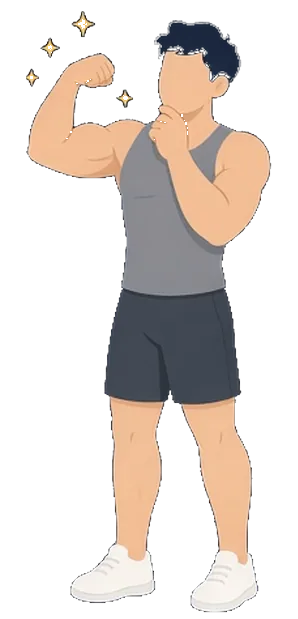
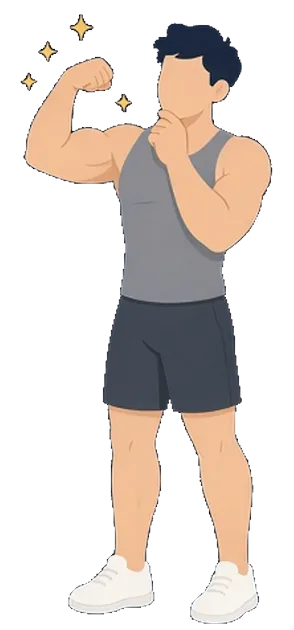
옆 그림 조각과 남색 후광을 지우고 포즈 동작을 조금 키운다.
각 컷은 연결된 사람 한 명만 담고, 발밑에는 옅은 그림만 남긴다. 손 흔들기·조깅·도넛이 1초 안에 읽히도록 움직임을 앞당긴다.

diff --git a/styles.css b/styles.css
@@ -145,19 +145,19 @@ h1 {
 .bodyfig {
   position: relative;
   height: calc(var(--fig-h, 168px) * var(--h, 1));
-  width: calc(var(--fig-h, 168px) * var(--h, 1) * var(--aw, 0.481));
+  width: calc(var(--fig-h, 168px) * var(--h, 1) * var(--aw, 0.467));
   flex: 0 0 auto;
   --accent: #7c9cff;
 }
 .bodyfig .bf-glow {
   position: absolute;
-  left: 14%;
-  right: 14%;
-  top: 16%;
-  bottom: 6%;
-  border-radius: 46% 46% 40% 40%;
-  background: radial-gradient(ellipse at 50% 62%, var(--accent), transparent 70%);
-  opacity: .28;
+  left: 28%;
+  right: 28%;
+  top: auto;
+  bottom: 0;
+  height: 5%;
+  border-radius: 50%;
+  background: radial-gradient(ellipse at center, rgba(0, 0, 0, .28), transparent 72%);
   pointer-events: none;
 }
 .bodyfig .bf-scale {
@@ -183,12 +183,12 @@ h1 {
   display: block;
   -webkit-user-drag: none;
 }
-.pose-flex .bf-anim { animation: pose-flex 2.8s ease-in-out infinite; transform-origin: 50% 100%; }
-.pose-jog .bf-anim { animation: pose-jog 2.4s ease-in-out infinite; transform-origin: 50% 100%; }
-.pose-wave .bf-anim { animation: pose-sway 3.2s ease-in-out infinite; transform-origin: 50% 100%; }
-.pose-donut .bf-anim { animation: pose-sway 3.2s ease-in-out infinite; transform-origin: 50% 100%; }
-.pose-poke .bf-anim { animation: pose-squish 3s ease-in-out infinite; transform-origin: 50% 64%; }
-.pose-hug .bf-anim { animation: pose-shy 3.4s ease-in-out infinite; transform-origin: 50% 100%; }
+.pose-flex .bf-anim { animation: pose-flex 2.2s ease-in-out infinite; transform-origin: 50% 100%; }
+.pose-jog .bf-anim { animation: pose-jog 2s ease-in-out infinite; transform-origin: 50% 100%; }
+.pose-wave .bf-anim { animation: pose-sway 2.2s ease-in-out infinite; transform-origin: 50% 100%; }
+.pose-donut .bf-anim { animation: pose-sway 2.4s ease-in-out infinite; transform-origin: 50% 100%; }
+.pose-poke .bf-anim { animation: pose-squish 2.2s ease-in-out infinite; transform-origin: 50% 64%; }
+.pose-hug .bf-anim { animation: pose-shy 2.4s ease-in-out infinite; transform-origin: 50% 100%; }
 .pose-flex .bf-anim,
 .pose-jog .bf-anim,
 .pose-wave .bf-anim,
@@ -202,13 +202,13 @@ h1 {
 .pose-wave .bf-fx {
   z-index: 2;
   transform-origin: var(--joint-x, 35%) var(--joint-y, 27%);
-  animation: pose-wave 2.6s ease-in-out infinite;
+  animation: pose-wave 1.8s ease-in-out infinite;
   animation-delay: var(--phase, 0s);
 }
 .pose-donut .bf-fx {
   z-index: 0;
   transform-origin: var(--fx-x, 80%) var(--fx-y, 52%);
-  animation: pose-peek 3.2s ease-in-out infinite;
+  animation: pose-peek 2.4s ease-in-out infinite;
   animation-delay: var(--phase, 0s);
 }
 .spark {
@@ -220,7 +220,7 @@ h1 {
   background: #ffe36b;
   clip-path: polygon(50% 0, 61% 35%, 98% 35%, 68% 57%, 79% 91%, 50% 70%, 21% 91%, 32% 57%, 2% 35%, 39% 35%);
   pointer-events: none;
-  animation: pose-twinkle 2.6s ease-in-out infinite;
+  animation: pose-twinkle 1.6s ease-in-out infinite;
 }
 .blush {
   position: absolute;
@@ -231,54 +231,52 @@ h1 {
   border-radius: 50%;
   background: radial-gradient(ellipse at center, rgba(255, 120, 146, .8), rgba(255, 120, 146, 0) 72%);
   pointer-events: none;
-  animation: pose-blush 3.2s ease-in-out infinite;
+  animation: pose-blush 2.2s ease-in-out infinite;
   animation-delay: var(--phase, 0s);
 }
-.pose-hug .blush { animation-duration: 3.4s; }
-.pose-poke .blush { animation-duration: 3s; }
+.pose-hug .blush { animation-duration: 2.4s; }
+.pose-poke .blush { animation-duration: 2.2s; }
 @keyframes pose-flex {
   0%, 100% { transform: translateY(0) rotate(0deg) scale(1); }
-  40% { transform: translateY(-2px) rotate(-1.5deg) scale(1.03); }
-  58% { transform: translateY(-1px) rotate(0.6deg) scale(1.012); }
+  30% { transform: translateY(-3px) rotate(-2.4deg) scale(1.045); }
+  52% { transform: translateY(-1px) rotate(0.8deg) scale(1.015); }
 }
 @keyframes pose-twinkle {
-  0%, 100% { opacity: .25; transform: scale(.8) rotate(-12deg); }
-  50% { opacity: 1; transform: scale(1.15) rotate(14deg); }
+  0%, 100% { opacity: .2; transform: scale(.75) rotate(-16deg); }
+  35% { opacity: 1; transform: scale(1.2) rotate(16deg); }
 }
 @keyframes pose-jog {
-  0%, 100% { transform: translateY(0) rotate(0deg); }
-  18% { transform: translateY(-6px) rotate(-2.2deg); }
-  36% { transform: translateY(0) rotate(0deg); }
-  58% { transform: translateY(-4px) rotate(2deg); }
-  76% { transform: translateY(0) rotate(0deg); }
+  0%, 32%, 64%, 100% { transform: translateY(0) rotate(0deg); }
+  14% { transform: translateY(-8px) rotate(-3deg); }
+  46% { transform: translateY(-6px) rotate(2.6deg); }
 }
 @keyframes pose-sway {
-  0%, 100% { transform: rotate(-1.6deg); }
-  50% { transform: rotate(1.8deg); }
+  0%, 100% { transform: rotate(-2.2deg); }
+  40% { transform: rotate(2.4deg); }
 }
 @keyframes pose-wave {
   0%, 100% { transform: rotate(0deg); }
-  22% { transform: rotate(-16deg); }
-  48% { transform: rotate(13deg); }
-  72% { transform: rotate(-9deg); }
-  86% { transform: rotate(5deg); }
+  20% { transform: rotate(-22deg); }
+  42% { transform: rotate(16deg); }
+  64% { transform: rotate(-12deg); }
+  82% { transform: rotate(6deg); }
 }
 @keyframes pose-peek {
-  0%, 100% { transform: translate(0, 1px) rotate(-6deg); }
-  42% { transform: translate(7px, -2px) rotate(12deg); }
-  64% { transform: translate(2px, 0) rotate(2deg); }
+  0%, 100% { transform: translate(0, 1px) rotate(-8deg); }
+  34% { transform: translate(11px, -3px) rotate(16deg); }
+  58% { transform: translate(3px, 0) rotate(3deg); }
 }
 @keyframes pose-squish {
-  0%, 70%, 100% { transform: scale(1, 1); }
-  36% { transform: scale(1.055, 0.96); }
+  0%, 62%, 100% { transform: scale(1, 1); }
+  30% { transform: scale(1.07, 0.945); }
 }
 @keyframes pose-shy {
-  0%, 100% { transform: rotate(-2deg); }
-  50% { transform: rotate(2.4deg); }
+  0%, 100% { transform: rotate(-1.2deg); }
+  38% { transform: rotate(3.2deg); }
 }
 @keyframes pose-blush {
-  0%, 100% { opacity: .2; transform: scale(.92); }
-  50% { opacity: .9; transform: scale(1.08); }
+  0%, 100% { opacity: .15; transform: scale(.9); }
+  40% { opacity: .95; transform: scale(1.1); }
 }
 
 .kv { background: var(--card2); border-radius: 12px; padding: 10px 12px; }

diff --git a/test/parse.test.js b/test/parse.test.js
@@ -113,18 +113,18 @@ assert.ok(ratio > 0.15 && ratio < 0.4, 'empty month keeps calendar space ' + rat
 const round = data.by.B[data.by.B.length - 1];
 const fig = I.bodySVG(round, '#c08cff', '', 183);
 assert.ok(fig.indexOf('bodyfig') >= 0 && fig.indexOf('NaN') < 0, 'silhouette');
-assert.ok(fig.indexOf('img/body/pose_bf30.webp?v=20261007b') >= 0, '30% pose');
+assert.ok(fig.indexOf('img/body/pose_bf30.webp?v=20261007c') >= 0, '30% pose');
 assert.ok(fig.indexOf('pose-poke') >= 0 && fig.indexOf('bf-over') < 0, 'nearest pose, no crossfade');
 assert.ok(fig.indexOf('pose_bf35') < 0, '30.8 stays on the 30 pose');
 const mid = I.bodySVG({ pbf: 23, height: 180 }, '#7c9cff', '', 180);
-assert.ok(mid.indexOf('pose-donut') >= 0 && mid.indexOf('pose_bf25.webp?v=20261007b') >= 0, '23% uses the donut pose');
+assert.ok(mid.indexOf('pose-donut') >= 0 && mid.indexOf('pose_bf25.webp?v=20261007c') >= 0, '23% uses the donut pose');
 assert.ok(mid.indexOf('pose_bf20') < 0, '23% does not mix poses');
 const lean = I.bodySVG({ pbf: 12.4, height: 183 }, '#7c9cff', '', 183);
-assert.ok(lean.indexOf('pose-flex') >= 0 && lean.indexOf('pose_bf10.webp?v=20261007b') >= 0, '12.4 flexes');
+assert.ok(lean.indexOf('pose-flex') >= 0 && lean.indexOf('pose_bf10.webp?v=20261007c') >= 0, '12.4 flexes');
 const exact = I.bodySVG({ pbf: 20, height: 180 }, '#7c9cff', '', 180);
 assert.ok(exact.indexOf('pose-wave') >= 0 && exact.indexOf('bf-over') < 0, 'exact anchor is one pose');
 const html = fs.readFileSync(path.join(root, 'index.html'), 'utf8');
-assert.ok(html.indexOf('styles.css?v=20261007b') >= 0 && html.indexOf('app.js?v=20261007b') >= 0, 'cache bust');
+assert.ok(html.indexOf('styles.css?v=20261007c') >= 0 && html.indexOf('app.js?v=20261007c') >= 0, 'cache bust');
 const shape = I.bodyShape(round);
 assert.ok(shape.f > 0.85, 'high body fat is round ' + shape.f);
 assert.ok(shape.m < 0.7, 'muscle stays skeletal ' + shape.m);

diff --git a/figure.js b/figure.js
@@ -26,12 +26,12 @@ function bodyBand(pbf) {
   const t = (raw - lo) / 5;
   return { lo: lo, hi: hi, t: t, scaleX: 1 + 0.03 * Math.sin(Math.PI * t), pbf: raw };
 }
-var ASSET_V = '20261007b';
+var ASSET_V = '20261007c';
 var POSE = { 10: 'flex', 15: 'jog', 20: 'wave', 25: 'donut', 30: 'poke', 35: 'hug' };
-var SPARKS = [[27.1, 3.9], [16.6, 7.5], [41.6, 15.5], [10.0, 12.4]];
+var SPARKS = [[27.5, 4.3], [16.0, 8.0], [9.7, 12.9], [41.7, 16.2]];
 var BLUSH = {
-  poke: [[42.7, 14.8], [53.3, 15.9]],
-  hug: [[41.4, 15.0], [52.7, 15.9]]
+  poke: [[40.7, 18.5], [51.0, 18.8]],
+  hug: [[40.9, 19.5], [52.5, 17.0]]
 };
 function nearest(band) {
   if (band.lo === band.hi || band.t < 0.5) return band.lo;
@@ -77,7 +77,7 @@ function bodySVG(r, color, cls, maxCm) {
     ' data-lo="' + band.lo + '" data-hi="' + band.hi + '" data-t="' + band.t.toFixed(3) + '"' +
     ' data-sx="' + band.scaleX.toFixed(4) + '" data-h="' + h.toFixed(4) + '"' +
     ' style="--accent:' + accent + ';--h:' + h.toFixed(4) + ';--sx:' + band.scaleX.toFixed(4) +
-    ';--aw:0.481;--phase:' + phase.toFixed(2) + 's;--joint-x:34.7%;--joint-y:27%;--fx-x:79.9%;--fx-y:51.6%">' +
+    ';--aw:0.467;--phase:' + phase.toFixed(2) + 's;--joint-x:31.9%;--joint-y:28.1%;--fx-x:80.1%;--fx-y:52.5%">' +
     '<div class="bf-glow"></div><div class="bf-scale"><div class="bf-anim">' + pics + extra + '</div></div></div>';
 }
   root.Inbody = root.Inbody || {};

diff --git a/index.html b/index.html
@@ -15,7 +15,7 @@
 <link rel="icon" href="icon-180.png" sizes="180x180">
 <link rel="icon" href="icon-512.png" sizes="512x512">
 <link rel="manifest" href="manifest.webmanifest">
-<link rel="stylesheet" href="styles.css?v=20261007b">
+<link rel="stylesheet" href="styles.css?v=20261007c">
 </head>
 <body>
 <div class="wrap">
@@ -41,10 +41,10 @@
     <div id="modeNote">이 화면은 인바디 용지에 적힌 값과 판정만 옮겨 보여 줍니다. 목표는 시트 ‘목표’ 탭 값입니다.</div>
   </footer>
 </div>
-<script src="parse.js?v=20261007b"></script>
-<script src="figure.js?v=20261007b"></script>
-<script src="charts.js?v=20261007b"></script>
-<script src="demo.js?v=20261007b"></script>
-<script src="app.js?v=20261007b"></script>
+<script src="parse.js?v=20261007c"></script>
+<script src="figure.js?v=20261007c"></script>
+<script src="charts.js?v=20261007c"></script>
+<script src="demo.js?v=20261007c"></script>
+<script src="app.js?v=20261007c"></script>
 </body>
 </html>

diff --git a/CHANGES.md b/CHANGES.md
@@ -43,7 +43,8 @@
 - 5% 구간 한가운데는 가로만 약 3% 넓혀, 1%마다 차이가 보이게 했습니다. 35%를 넘으면 조금 더 넓힙니다.
 - 각 포즈는 2~4초 주기로 살짝 움직입니다. 카드마다 시작 시점이 달라 같이 흔들리지 않습니다. 움직임을 줄인 환경에서는 멈춥니다.
 - 여섯 장의 피부, 셔츠, 반바지 색과 키에 맞춘 크기를 같게 맞췄습니다.
-- `styles.css`, 스크립트, `img/body` 주소에는 `?v=20261007b`를 붙였습니다.
+- 옆 사람의 잘린 조각과 남색 테두리는 그림에서 뺐습니다. 발밑에는 옅은 그림자만 있습니다.
+- `styles.css`, 스크립트, `img/body` 주소에는 `?v=20261007c`를 붙였습니다.
 - 한 화면에 같이 있는 사람 중 가장 큰 키를 기준으로 그림 높이를 줄입니다. 발은 같은 선에 둡니다.
 - 사람 색은 그림 뒤의 은은한 빛으로만 쓰고, 그림 자체는 다시 칠하지 않습니다.
 - 상세에는 처음, 지금, 24주 목표를 같은 키로 나란히 둡니다.
